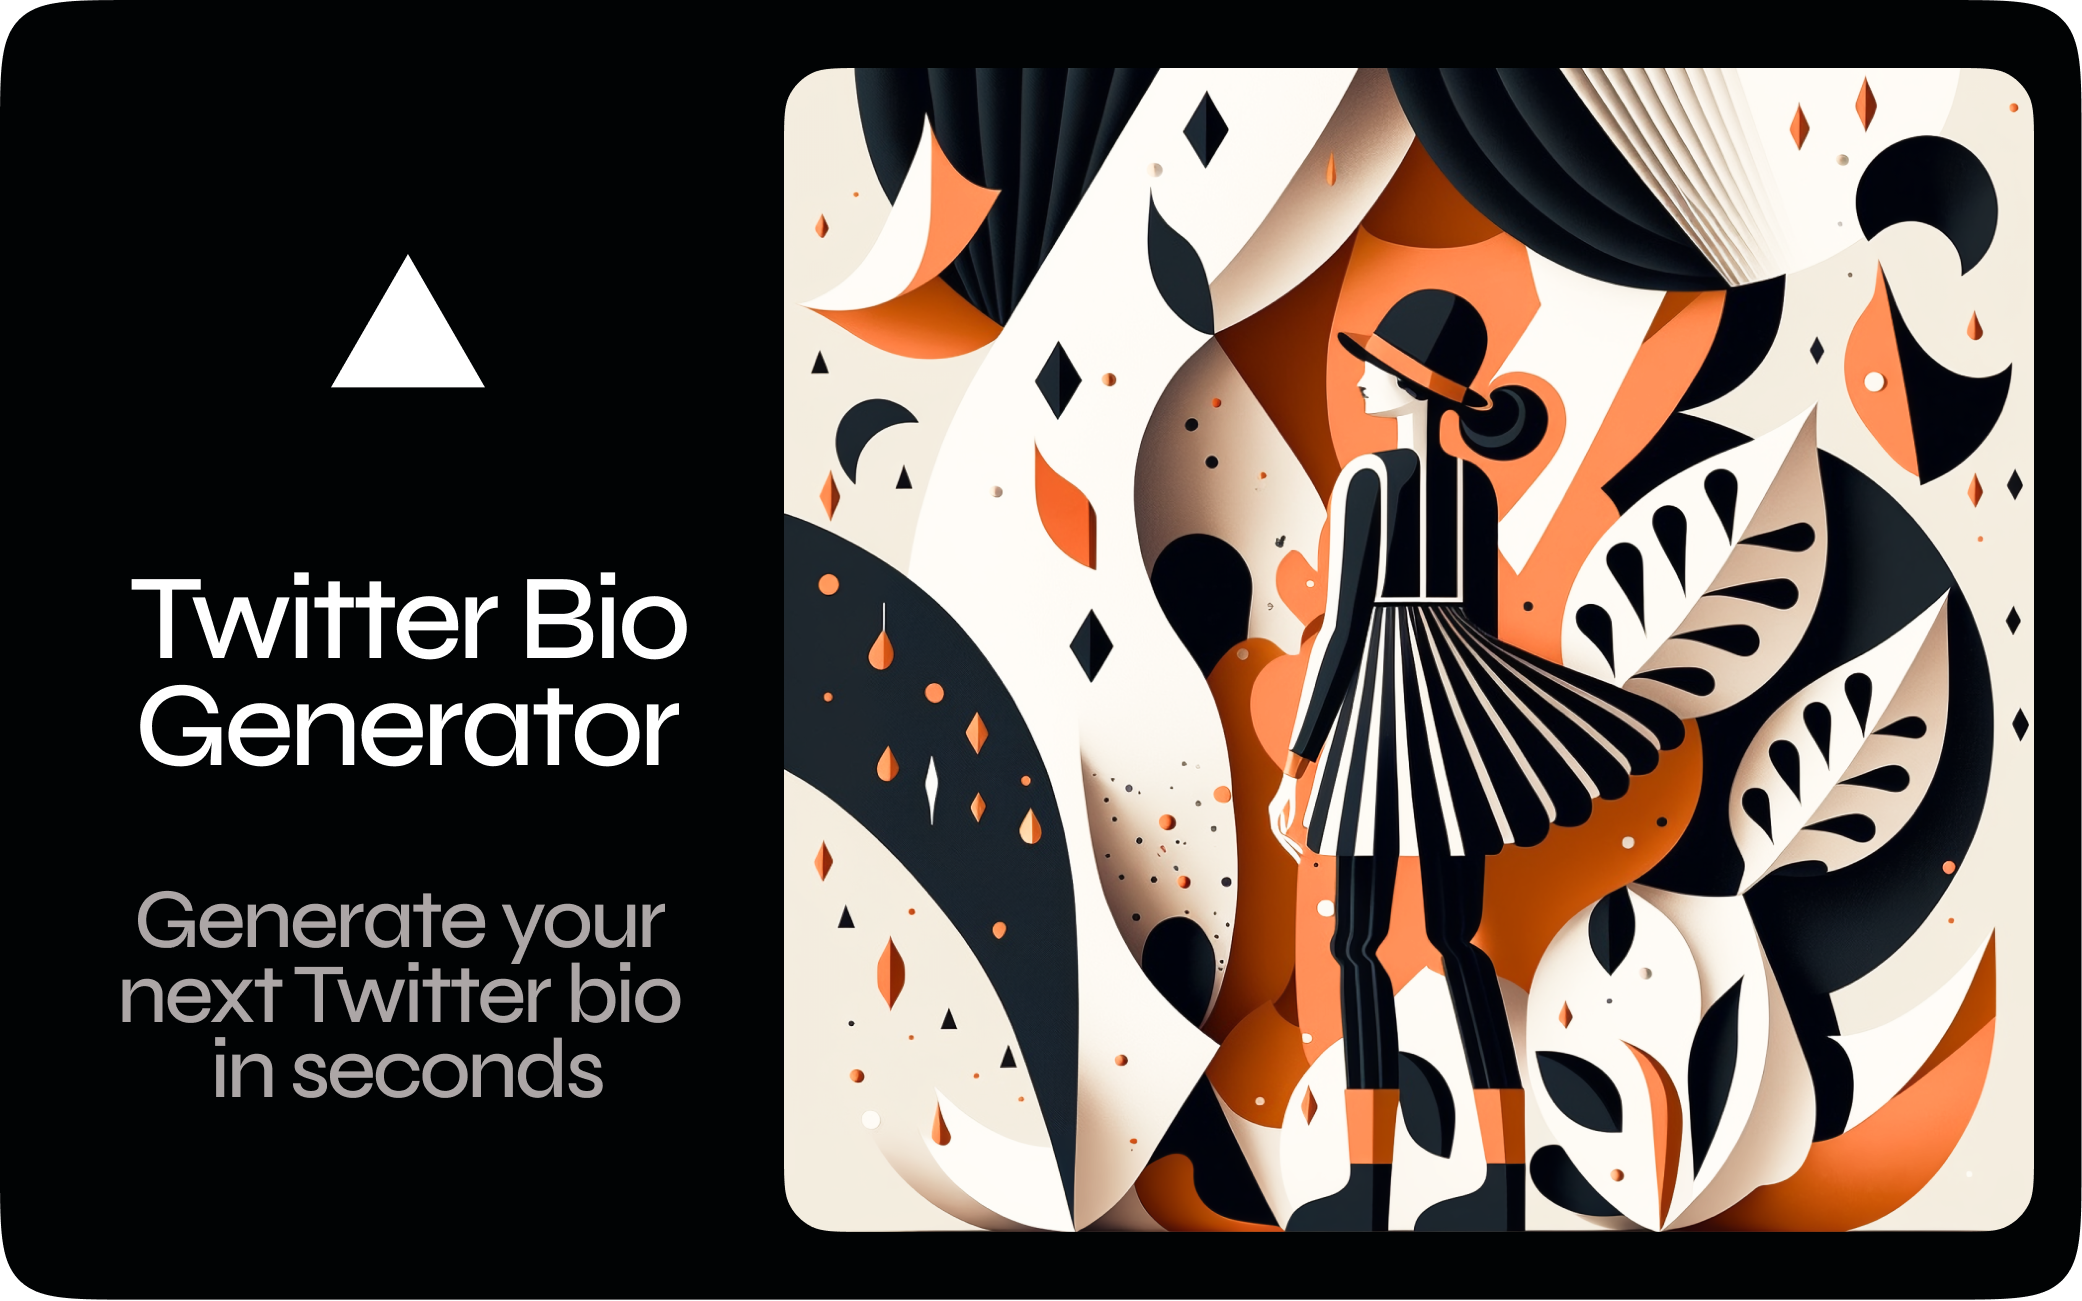
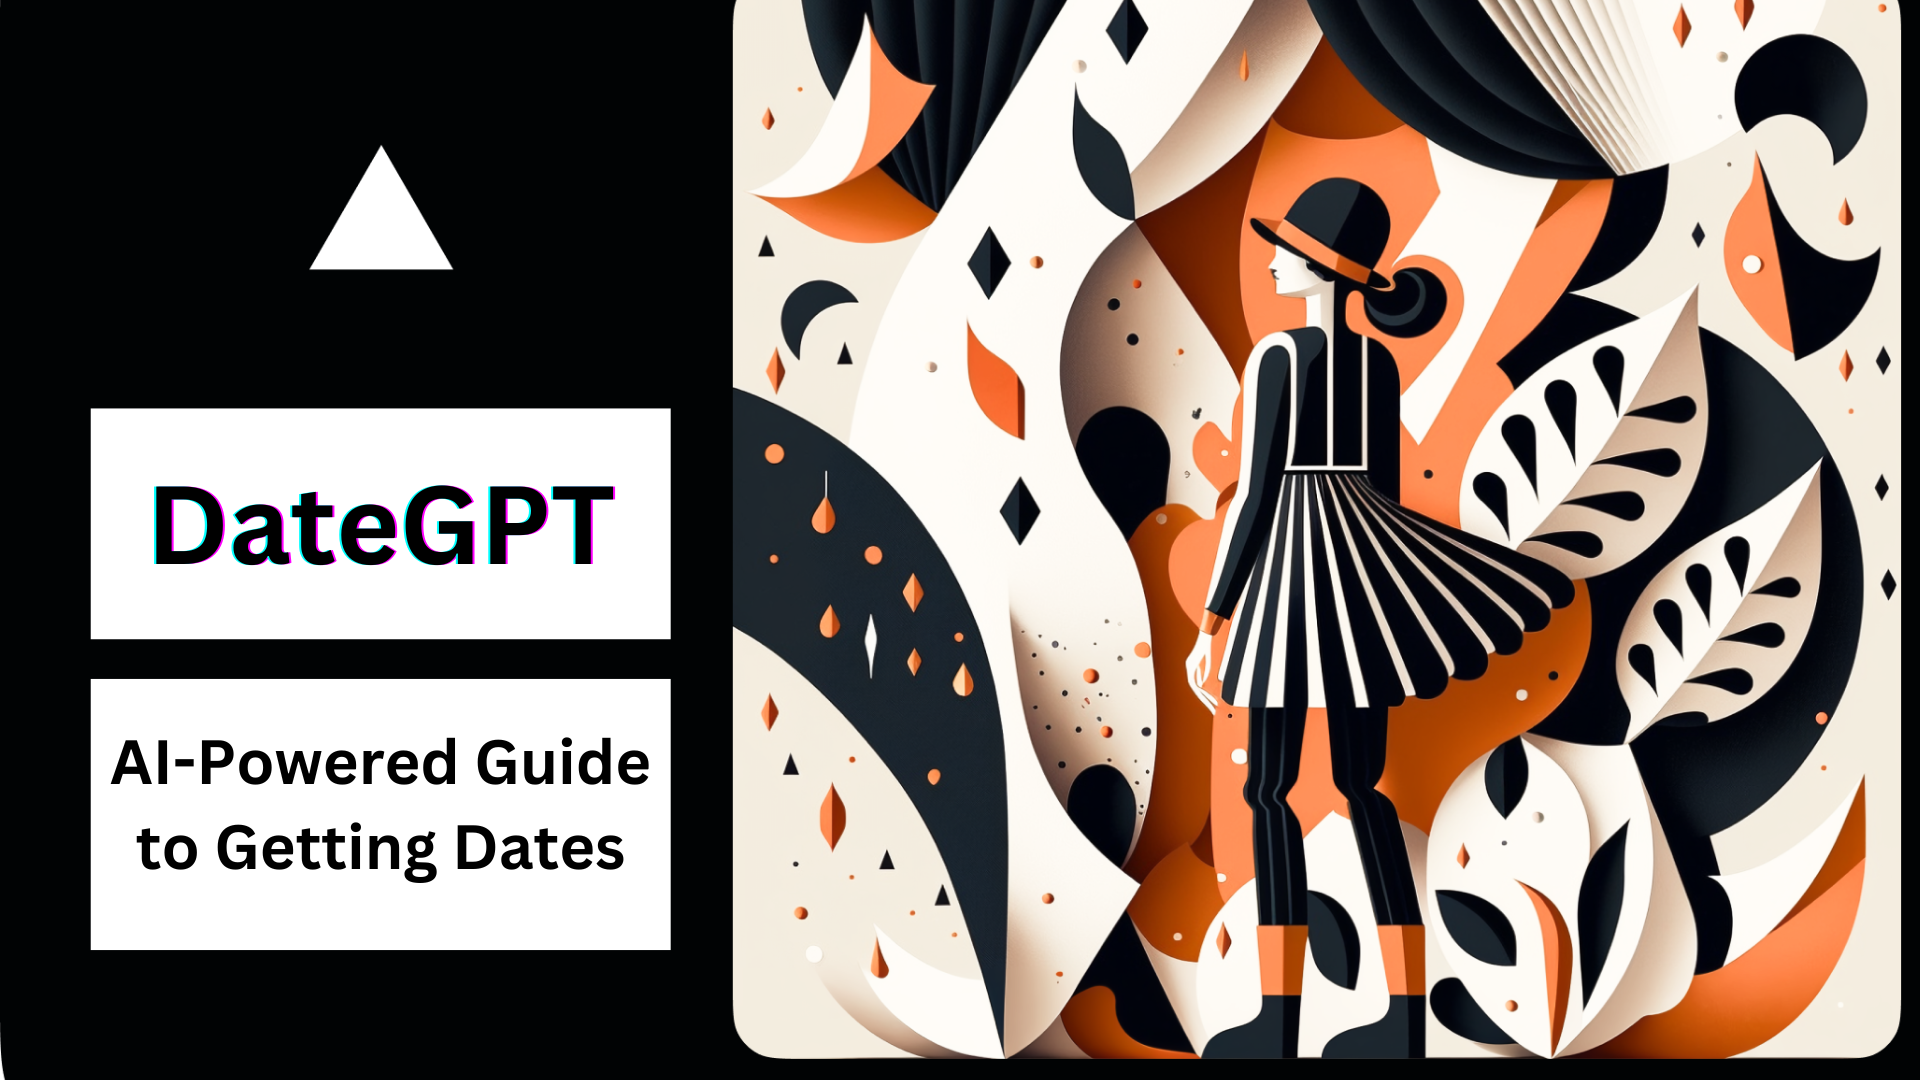
Big Push for Site

diff --git a/pages/index.tsx b/pages/index.tsx
@@ -25,7 +25,12 @@ const Home: NextPage = () => {
 
   const prompt = `Generate 2 extremly ${vibe} Tinder dating profile bios with no hashtags and clearly labeled "1." and "2.". ${
     vibe === "Funny"
-      ? "Make sure there is a joke in there and it's a little ridiculous."
+      ? "Make sure there is a joke in there and it's a super ridiculous. Can use a few puns. Should be hilarious, not lame. "
+      : null
+  }
+  ${
+    vibe === "Flirty"
+      ? "Make sure it is romantic and very forward; compliment the person."
       : null
   }
   ${
@@ -35,9 +40,15 @@ const Home: NextPage = () => {
   }
   ${
     vibe === "Gangster"
-      ? "Make sure the it uses hood slang. Something a gangster criminal from the poor hood would say."
+      ? "Make sure the it uses hood slang and some grammatical mistakes. Something a gangster criminal from the poor hood would say."
       : null
   }
+  ${
+    vibe === "European Snob"
+      ? "Speak like a European snob, completely daddy's money. Make sure to be super condescending. Use British and French old money slang."
+      : null
+  }
+  
       Make sure each generated biography is less than 160 characters, has short sentences that are found in Tinder bios, and base them on this context: ${bio}${
     bio.slice(-1) === "." ? "" : "."
   } `;

diff --git a/pages/_document.tsx b/pages/_document.tsx
@@ -8,16 +8,16 @@ class MyDocument extends Document {
           <link rel="icon" href="/heartLogo.png" />
           <meta
             name="description"
-            content="Generate your next Tinder bio in seconds."
+            content="Generate your next bio in seconds."
           />
           <meta property="og:site_name" content="dategpt.vercel.app" />
           <meta
             property="og:description"
-            content="Generate your next Tinder bio in seconds."
+            content="Generate your next bio in seconds."
           />
-          <meta property="og:title" content="Tinder Bio Generator" />
+          <meta property="og:title" content="DateGPT: AI-Powered Bio Generator" />
           <meta name="tinder:card" content="summary_large_image" />
-          <meta name="tinder:title" content="Tinder Bio Generator" />
+          <meta name="tinder:title" content="DateGPT AI-Powered Bio Generator" />
           <meta
             name="tinder:description"
             content="Generate your next Tinder bio in seconds."

diff --git a/components/DropDown.tsx b/components/DropDown.tsx
@@ -10,14 +10,14 @@ function classNames(...classes: string[]) {
   return classes.filter(Boolean).join(" ");
 }
 
-export type VibeType = "Flirty" | "Confident" | "Kind" | "Funny" | "Intelligent" | "Ambitious" | "Ridiculous" | "Poetic" | "Gangster";
+export type VibeType = "Flirty" | "Confident" | "Funny" | "Intelligent" | "Poetic" | "Gangster" | "European Snob";
 
 interface DropDownProps {
   vibe: VibeType;
   setVibe: (vibe: VibeType) => void;
 }
 
-let vibes: VibeType[] = ["Flirty", "Confident", "Kind", "Funny", "Intelligent", "Ambitious", "Ridiculous", "Poetic", "Gangster"];
+let vibes: VibeType[] = ["Flirty", "Confident", "Funny", "Intelligent", "Poetic", "Gangster", "European Snob"];
 
 export default function DropDown({ vibe, setVibe }: DropDownProps) {
   return (
